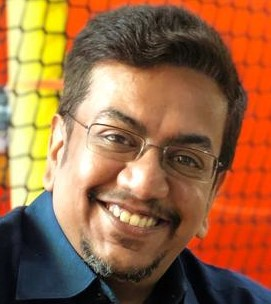
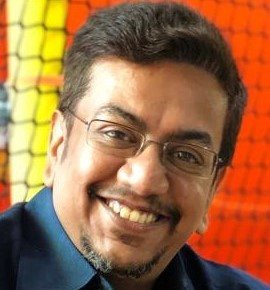
done

diff --git a/src/ui/pages/distriibutor/Advantage.jsx b/src/ui/pages/distriibutor/Advantage.jsx
@@ -1,5 +1,5 @@
 import React from "react";
-import { Box,  Grid } from "@mui/material/";
+import { Box, Grid } from "@mui/material/";
 import Typography from "@mui/material/Typography";
 
 const Advantage = () => {
@@ -16,22 +16,32 @@ const Advantage = () => {
         container
         spacing={0}
         direction="row"
-        justifyContent="flex-start"
+        justifyContent="space-between"
         alignItems="stretch"
         alignContent="stretch"
         wrap="wrap"
         sx={{ marginTop: "-8px" }}
       >
-        <Grid item xl="8" md="8" xs="12" sx={{paddingTop:{md:'20px',xs:'0'}}}>
+        <Grid
+          item
+          xl="8"
+          md="8"
+          xs="12"
+          sx={{ paddingTop: { md: "30px", xs: "10px" }, padding: "0 15px"  }}
+        >
           <img
             src={require("../../assets/home/stalwartadvantage2.png")}
             alt=""
-            style={{ width: "100%", }}
+            style={{ width: "100%" }}
           />
         </Grid>
         <Grid item xl="4" md="4" xs="12" style={{ background: "#f6f6f6" }}>
-          <Box sx={{ padding: { md: "50px", xs: "20px" } }}>
-            <Typography fontSize="20px" color="#000" sx={{padding: { md: "auto",xs:"20px"}}}>
+          <Box sx={{ padding: { md: "30px", xs: "20px" } }}>
+            <Typography
+              fontSize="19px"
+              color="#000"
+              sx={{ padding: { md: "auto", xs: "20px" } }}
+            >
               <div
                 style={{
                   fontWeight: "bold",
@@ -43,18 +53,21 @@ const Advantage = () => {
               </div>
               <ul>
                 <li style={{ marginBottom: "20px" }}>
-                  Single point billing for the Brand that Stalwart runs which
-                  eases the accounting process.
+                  Stalwart makes Faster, effective, hassle-free territory entry,
+                  market expansion and revenue generation for the brands.
+                  Stalwart also has options of extending Credit facility to
+                  retailers to fast track cash flow to the Distributors to
+                  reduce the market outstanding.
                 </li>
                 <li style={{ marginBottom: "20px" }}>
-                  Stalwart builds, manages and operates complete Sales &
-                  Distribution, Marketing and Revenue Solutions for you, while
-                  you focus on brand strengthening and product portfolio.
+                  Stalwart runs complete market value chain in GT, MT, HoReCa
+                  and Quick Commerce and Marketplaces with Effective execution
+                  on Secondary Sales and in store merchandising to ensure faster
+                  off take and reduce market outstanding.
                 </li>
                 <li>
-                  Stalwart runs complete market value chain in GT, MT, HoReCa
-                  and Quick Commerce and Marketplaces.
-                  
+                  Single point billing for the Brand & Distributor that which
+                  eases the accounting process.
                 </li>
               </ul>
             </Typography>

diff --git a/src/ui/pages/home/Index.jsx b/src/ui/pages/home/Index.jsx
@@ -535,7 +535,7 @@ const Home = () => {
                 }}
                 fontWeight="700"
               >
-                Awarded at Asiaone Annual summit 2021-22
+                'Stalwart World' - Awarded as <br /> 'World's Greatest Brand 2021-22'
               </Typography>
             </div>
             <Grid
@@ -625,9 +625,6 @@ const Home = () => {
                 <span className="bluecol">
                   {` ' World’s Greatest Leaders 2021-22 ' `}
                 </span>
-                & 'Stalwart World' - Awarded as
-                <span className="bluecol">{` ' World's Greatest Brand 2021-22 ' `}</span>
-                at the annual summit of AsiaOne.
               </Typography>
             </div>
           </Grid>

diff --git a/src/ui/pages/about/Team.jsx b/src/ui/pages/about/Team.jsx
@@ -2,7 +2,7 @@ import React from "react";
 import { Container, Box } from "@mui/material/";
 import Typography from "@mui/material/Typography";
 import sv from "../../assets/home/sv.jpeg";
-import pramod from "../../assets/home/pramod1.jpg";
+import pramod from "../../assets/home/pramod2.jpeg";
 import aditya from "../../assets/home/aditya2.jpg";
 import divya from "../../assets/home/divya.jpeg";
 

diff --git a/src/ui/pages/products/PersonalCare.jsx b/src/ui/pages/products/PersonalCare.jsx
@@ -109,8 +109,8 @@ const PersonalCare = () => {
           </Grid>
           <Grid
             item
-            xl="9"
-            md="9"
+            xl="7"
+            md="7"
             xs="12"
             sx={{
               paddingLeft: { md: "50px", xs: "10px" },

diff --git a/src/ui/coponents/footer/Footer.jsx b/src/ui/coponents/footer/Footer.jsx
@@ -77,7 +77,7 @@ const Footer = () => {
                     variant="body1"
                     color="#FFF"
                   >
-                    Careers
+                    Join Us
                   </Typography>
                 </Box>
                 <Box>
